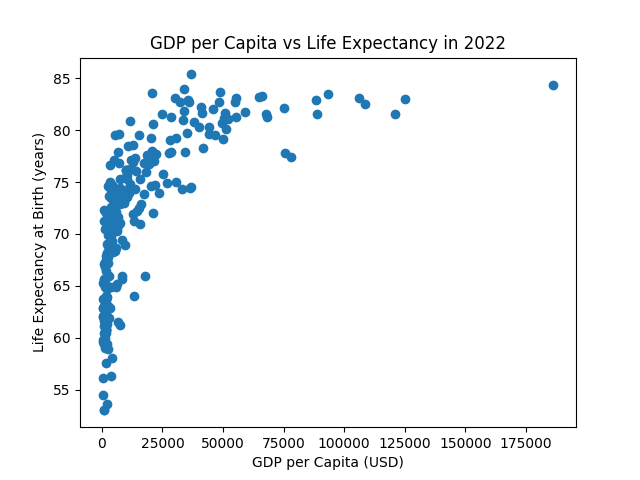
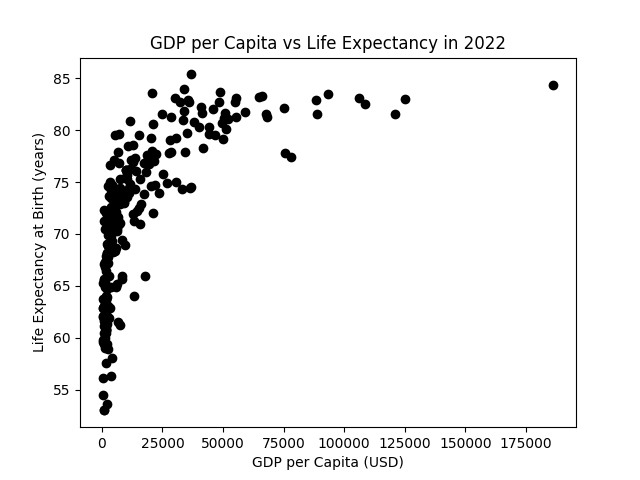
make markers black

diff --git a/assignment_one/gdp_lifespan.py b/assignment_one/gdp_lifespan.py
@@ -18,7 +18,7 @@ y_axis = lifespan_data['2022'] # Life expectancy for 2022
 # drop if missing either data
 data = pd.DataFrame({'GDP': x_axis, 'Life Expectancy': y_axis}).dropna()
 # Plot the data
-plt.scatter(data['GDP'], data['Life Expectancy'])
+plt.scatter(data['GDP'], data['Life Expectancy'], color='black')
 # Add labels
 plt.title('GDP per Capita vs Life Expectancy in 2022')
 plt.xlabel('GDP per Capita (USD)')
